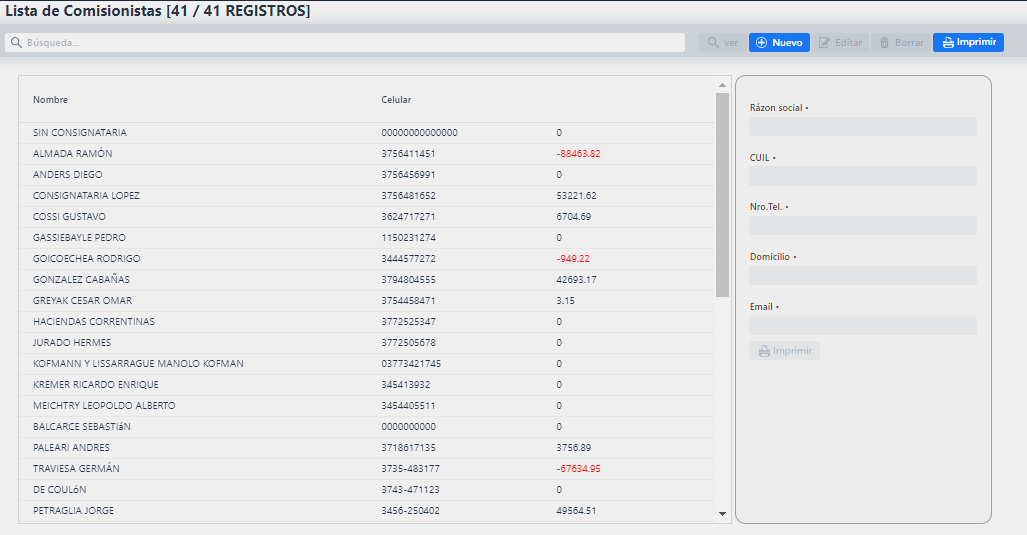
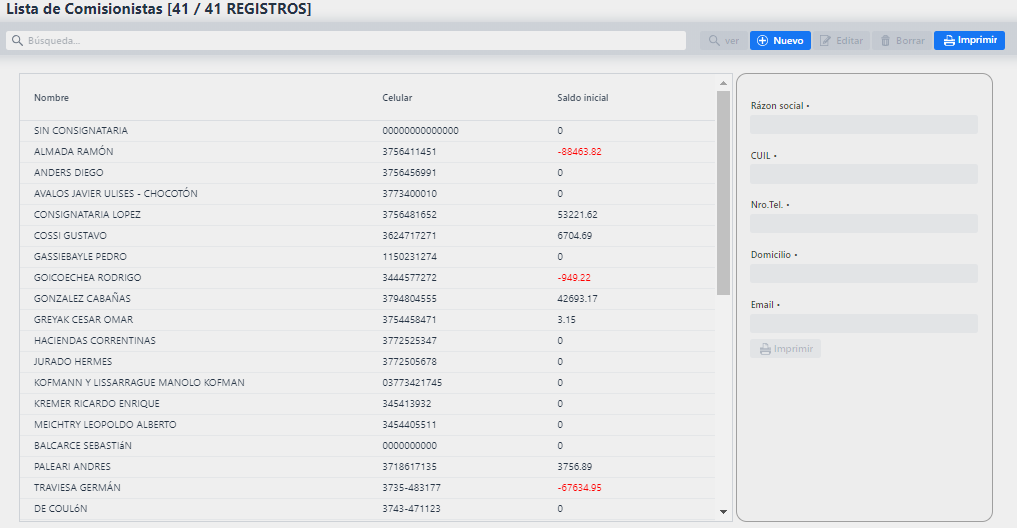
Nueva script de creacion de BD. Manual. Reporte faena. Listado de comisionistas

diff --git a/src/main/java/com/gmail/sanfrancisco/view/comisionista/ComisionistaList.java b/src/main/java/com/gmail/sanfrancisco/view/comisionista/ComisionistaList.java
@@ -51,12 +51,14 @@ public class ComisionistaList extends AbstractList<Comisionista> {
         grilla.addColumn(Comisionista::getNombre)
                 .setHeader("Nombre")
                 .setWidth("40%")
-                .setKey("nombre");
+                .setKey("nombre")
+                .setSortable(true);
 
         grilla.addColumn(Comisionista::getCelular)
                 .setHeader("Celular")
                 .setWidth("15%")
-                .setKey("celular");
+                .setKey("celular")
+                .setSortable(true);
 
 //        grilla.addColumn(Comisionista::getSaldoInicial)
 //                .setHeader("Inicio")
@@ -75,7 +77,9 @@ public class ComisionistaList extends AbstractList<Comisionista> {
         grilla.addColumn(TemplateRenderer.<Comisionista>
                 of("<div style$=\"[[item.class]]\">[[item.saldoInicial]]</div>")
                 .withProperty("class", cssClassProvider)
-                .withProperty("saldoInicial", Comisionista::getSaldoInicial));
+                .withProperty("saldoInicial", Comisionista::getSaldoInicial))
+                .setHeader("Saldo inicial")
+        .setSortable(true);
 
 
 

diff --git a/doc/Manual.md b/doc/Manual.md
@@ -1,58 +1,72 @@
 #Pantalla principal
 
-Al iniciar sesion encontrara en la esquina superior izquierda tres lineas horizontales que le permitiran ocultar el **Menu principal** y en la esquina superior derecha botones que le permitiran **cambiar su contraseña** (Candado) o **cerrar su sesion**.
+La pantalla inicial que encontrara tan pronto inicie sesion cuenta con un **Menu principal** de navegacion desde el cual podra dirigirse a cualquier sector en cuestion de dos clicks. Este menu de navegacion puede ocultarse cuando se deje de usar usando las 3 lineas horizontales ubicadas en la esquina superior izquierda.
+
+En la esquina superior derecha encontrara 2 iconos:
+Usando el candado podra cambiar la contraseña de su cuenta y usando el otro cerrara su sesion.
 
 ![Pantalla pricipal](Manual imagenes/pantalla principal.png)
 
 ## Menu principal
 
-El menu principal permite la facil **navegacion** entre los sectores, presentadolos en una lista que a su ves cada una contiene una sub-lista para su mejor ordenamiento.
+El menu principal permite la facil **navegacion** entre los sectores, presentado las opciones en una lista vertical de sectores agrupados. Se agrupan los sectores para mantener el listado en un tamaño accesible y tener un orden. Cada grupo despliega una sub-lista de los sectores, por ejemplo el grupo 'Personas' contiene los sectores de Comisionistas, Consignatario y Productores.
 
 ![Menu principal](Manual imagenes/Menu principal.png)
 
 ## Interfaz de sectores
 
+Todas las interfaces o pantallas de los sectores mantiene una misma estructura, de esta forma aprender a usar un sector asegura saber usar el resto.
+Tomando de ejemplo el sector de Consignatario explicaremos sus funciones.
+
 ![CRUD](Manual imagenes/CRUD.png)
 
-Cada sector contiene una lista de sus registros (En este caso 'Consignatarios') la cual se puede filtrar con el campo sobre ella. A su derecha un conjunto de botones y debajo de ellos una previsualizacion.
+Cada sector contiene una lista de sus registros (En este caso Consignatarios) mostrando algunos de sus campos. Sobre el listado un campo de busqueda le permitira filtrar la lista para encontrar rapidamente algun registro especifico.
 
 ###### Previsualizacion:
-Este es el cuadro de la derecha. Al seleccionar un registro de la lista mostrara datos extra del mismo. A su ves contiene un boton **imprimir** que mostrara los datos del registro seleccionado en un PDF.
+Este es el cuadro de la derecha. Al seleccionar un registro de la lista mostrara datos extra del mismo. Dentro del mismo contiene un boton **imprimir** que mostrara los datos del registro seleccionado en un PDF.
 
 
 ###### Botones:
+Sobre el recuadro de Previsualizacion hay un conjunto de botones:
+
 ![botones](Manual imagenes/botones.png)
 - VER: Previsualizacion completa del registro seleccionado en la lista.
 - NUEVO: Crear un nuevo registro.
-- EDITAR: Modificar los datos del registro seleccionado.
-- BORRAR: Eliminar el registro seleccionado.
+- EDITAR: Modificar los datos del registro seleccionado de la lista.
+- BORRAR: Eliminar el registro seleccionado de la lista.
 - IMPRIMIR: Despliega una lista de reportes en PDF o EXCEL relacionados con el sector (En este caso 'Consignatarios').
 
 ## Ventanas de carga o edicion de datos
 
-Las interfaces de carga/edicion de datos cuentan con un formulario con los campos correspondientes a rellenar/cambiar y 3 botones:
+Cuando utilice los botones de **NUEVO** o **EDITAR** se abriran ventanas con un formulario. Los campos en este formulario dependeran del registro que este cargando/editando pero los botones en el mismo siempre tendran las mismas funciones:
 
 - GUARDAR: Guardar los cambios o el nuevo registro.
 - GUARDAR Y AGREGAR: Guarda el nuevo registro y mantiene la ventana abierta para otro registro nuevo.
 - CANCELAR: Cancelar la operacion.
 
 ![Ventana Alta-Modificacion](Manual imagenes/Ventana AM.png)
+(Imagen de ejemplo: formulario de Consignatario)
 
 ## Campo especial
 
-En algunos formularios se encontrara con un campo especial (En este caso relacionado a 'Consignatario')
+En algunos formularios se encontrara con un campo especial. Su estructura es la siguiente:
+- Una descripcion sobre el. En la imagen lo ve como 'Consignatario'.
+- Un 'campo de codigo'. En la imagen lo ve como '2'.
+- Un 'campo de descripcion' pegado al campo de codigo. En la imagen lo ve como 'ALMADA RAMON'.
+- Pegado al campo de descripcion, 3 botones: Lupa, goma y ojo.
 
 ![Control custom select](Manual imagenes/custom select.png)
 
-Este tipo de campo le da mas opciones y velocidad a la hora de buscar datos. En el usted puede:
-- Si lo sabe de memoria, puede **ingresar el codigo** del registro que desea y ahorrarse la busqueda manual. En este caso es '2' y el codigo que desee debe ingresarse **en el mismo lugar donde este se encuentra**.
+Este tipo de campo permite encontrar con mayor rapidez un registro con el cual trabaja repetidamente, buscar con facilidad en un gran conjunto de datos el que usted desea o incluso agregar un registro de otro sector sin necesidad de navegar hasta el.
+- Si lo sabe de memoria, puede **ingresar el codigo** (En el campo de codigo) del registro que desea y ahorrarse la busqueda manual.
 - La lupa: Permite desplegar una **lista de los registros** (Consignatarios en este caso), **filtrarlos** con el campo que se encuentra sobre la lista e incluso agregar un registro en el acto con el boton **AGREGAR**.
 
 ![Control custom select listado](Manual imagenes/custom select list.png)
+(Imagen de ejemplo: Listado de consignarios que despliega el boton de la lupa)
 
-- La goma: Quitar del control el registro seleccionado, o en otras palabras, limpiar el campo.
+- La goma: Quitar del campo el registro seleccionado, o en otras palabras, limpiar el campo.
 
-- El ojo: Previsualizar el registro seleccionado.
+- El ojo: Previsualizar el registro seleccionado y todos sus datos.
 
 ## Grillas
 
@@ -79,20 +93,66 @@ Dentro del menu otros se encuentran los sectores de **Agenda** e **Insumos**.
 
 ##### Sector Agenda
 
+Una agenda que le permitira agendar eventos los cuales estan relacionados a comisionista y conductor. Dando click sobre una fecha en la agenda se presentara el formulario para realizar un registro.
 ![menu agenda](Manual imagenes/menu agenda.png)
-Una agenda que le permitira agendar eventos los cuales estan relacionados a comisionista y conductor. Dando click sobre una fecha en la agenda se presentara el formulario.
 
-![menu agenda](Manual imagenes/agenda.png)
 Ingrese el titulo del evento, seleccione Conductor, seleccione Comisionista, seleccione el color con el que quiere que el evento aparesca en la agenda, ingrese una descripcion y termine la operacion dando al boton **Crear**.
 
-![menu agenda](Manual imagenes/agenda mensual.png)
-Tambien podra, con los botones que se encuentran sobre la agenda, cambiar el tipo de visualizacion. Cambie el mes/semana que esta viendo con los botones **Previo, Hoy y Siguiente**.
+![menu agenda](Manual imagenes/agenda.png)
+
+Tambien podra, con los botones que se encuentran sobre la agenda, cambiar el tipo de visualizacion. Esta son las opciones:
+
+![menu agenda](Manual imagenes/botones agenda.png)
+
+SEMANAL:
+
+![agenda semanal](Manual imagenes/agenda semanal.png)
+
+AGENDA SEMANAL:
+
+![agenda agenda semanal](Manual imagenes/agenda agenda semanal.png)
+
+LISTA SEMANAL:
+
+![agenda lista semanal](Manual imagenes/agenda lista semanal.png)
+
+DIARIO:
+
+![agenda diario](Manual imagenes/agenda diario.png)
+
+AGENDA DIARIA:
+
+![agenda agenda diaria](Manual imagenes/agenda agenda diaria.png)
+
+LISTA DIA:
+
+![agenda lista dia](Manual imagenes/agenda lista dia.png)
+
+MENSUAL:
+
+![agenda mensual](Manual imagenes/agenda mensual.png)
+
+LISTA MENSUAL:
+
+![agenda lista mensual](Manual imagenes/agenda lista mensual.png)
+
+LISTA ANUAL:
+
+![agenda lista anual](Manual imagenes/agenda lista anual.png)
+
+Cambie el mes/semana que esta viendo con los botones **Previo, Hoy y Siguiente**.
+
+![menu agenda](Manual imagenes/agenda botones navegacion.png)
+
 
 ##### Sector insumos
 
+Tomemos el sector de insumos para reforzar la explicacion de sobre la estructura y funcionamiento de los sectores.
+
 ![menu insumos](Manual imagenes/menu insumos.png)
 
-Presenta un listado de insumos con algunos de sus datos. Seleccionando uno de estos se pueden previsualizar mas detalles sobre el mismo en el cuadro de la derecha. A su ves el cuadro de la derecha contiene un boton **imprimir** que mostrara los datos del insumo seleccionado en un PDF.
+Principalmente vemos un listado de insumos con algunos de sus datos.
+Seleccionando un registro en la lista se puede previsualizar mas detalles sobre el mismo en el cuadro de la derecha. A su ves el cuadro de la derecha contiene un boton **imprimir** que mostrara los datos del insumo seleccionado en un PDF.
 Puede cargar un nuevo insumo dandole al boton **nuevo**, cargando el formulario que aparecera y terminando la operacion dandole al boton **guardar**, o **guardar y agregar** si desea continuar cargando otro insumo.
 Los botones de **ver**, **editar** y **borrar** se habilitan cuando se tiene seleccionado algun registro en la lista.
 El boton **imprimir** (Arriba a la derecha) presentara un listado de reportes los cuales usted podra elegir si los desea en un PDF o en EXCEL. Las opciones de reportes en este sector son:
@@ -100,7 +160,7 @@ El boton **imprimir** (Arriba a la derecha) presentara un listado de reportes lo
 
 ## Menu transporte
 
-Dentro del menu transporte se encuentran los sectores de **Vehiculos** y **Conductor**.
+Dentro del menu transporte se encuentran los sectores de **Vehiculos** y **Conductores**.
 
 ![menu transporte](Manual imagenes/menu transporte.png)
 
@@ -120,8 +180,8 @@ El boton **imprimir** (Arriba a la derecha) de este sector contiene los reportes
 - Listado: Una lista de todos los conductor y algunos de sus datos.
 
 Dentro del formulario de conductores encontrara la grilla de licencias, que le permitira cargar la cantidad de licencias que desee a dicho conductor o editar/borrar las que ya tenga.
-![grilla licencias](Manual imagenes/grilla licencias.png)
 
+![grilla licencias](Manual imagenes/grilla licencias.png)
 
 ## Menu personas
 
@@ -130,6 +190,8 @@ Dentro del menu personas se encuentran los sectores de **Comisionista**, **Consi
 ##### Sector comisionistas
 
 ![sector comisionista](Manual imagenes/submenu comisionista.png)
+
+En el listado de los comisionistas los saldos iniciales que se encuentren en negativo apareceran coloreados en rojo.
 
 El boton **imprimir** (Arriba a la derecha) de este sector contiene los reportes:
 - Listado: Una lista de todos los comisionistas y algunos de sus datos.
@@ -224,11 +286,19 @@ Dentro del menu faena se encuentran el sector de **Faena**.
 
 ##### FAENA
 
-![faena](Manual imagenes/faena.png)
+El formulario de Faena se desplegara completamente al cabo de terminar los pasos iniciales.
 
-El campo **Tropa** no permitira cargar una tropa que no sea del productor seleccionado, es por esto que **debe cargar el campo Productor con anterioridad**.
+![faena](Manual imagenes/Faena.png)
+
+Cargue los campos Fecha y Numero, cuando **cargue el Productor recien tendra la posibilidad de cargar el campo Tropa**, debido a que las categorias que se presentaran debajo deben estar relacionados a un determinado productor.
+
 Una ves seleccionada la tropa se le apareceran las categorias de la misma. Donde:
 - El campo **Cantidad**: Indica la cantidad de la categoria dentro de la tropa.
 - El campo **Faenado**: Indica la cantidad ya faenada.
 - El campo **Dif** (Diferencia): Indica la cantidad que queda por faenar.
-- El campo **A Faenar**: En este campo debera indicar que cantidad desea faenar y luego darle al boton **CARGAR**.
+- El campo **A Faenar**: En este campo debera indicar que cantidad desea faenar y luego darle al boton CARGAR.
+
+Una ves presionado el boton cargar se rellenara la tabla debajo.
+Considere:
+- El campo **Categoria** indica la categoria de salida de la faena, ya que esta puede cambiar.
+- Usted podra presionar CARGAR en la cabezera, rellenar los campos (categoria, peso izquierda, peso derecha) y luego nuevamente darle CARGAR en una cabezera distinta sin perder los datos cargados. Ejemplo de la imagen: Cargo 12 a faenar en la primera categoria de vacas con cantidad 49, rellenar los datos y luego darle a CARGAR a la segunda categoria de vacas con cantidad 1 sin perder los datos ya cargados.
